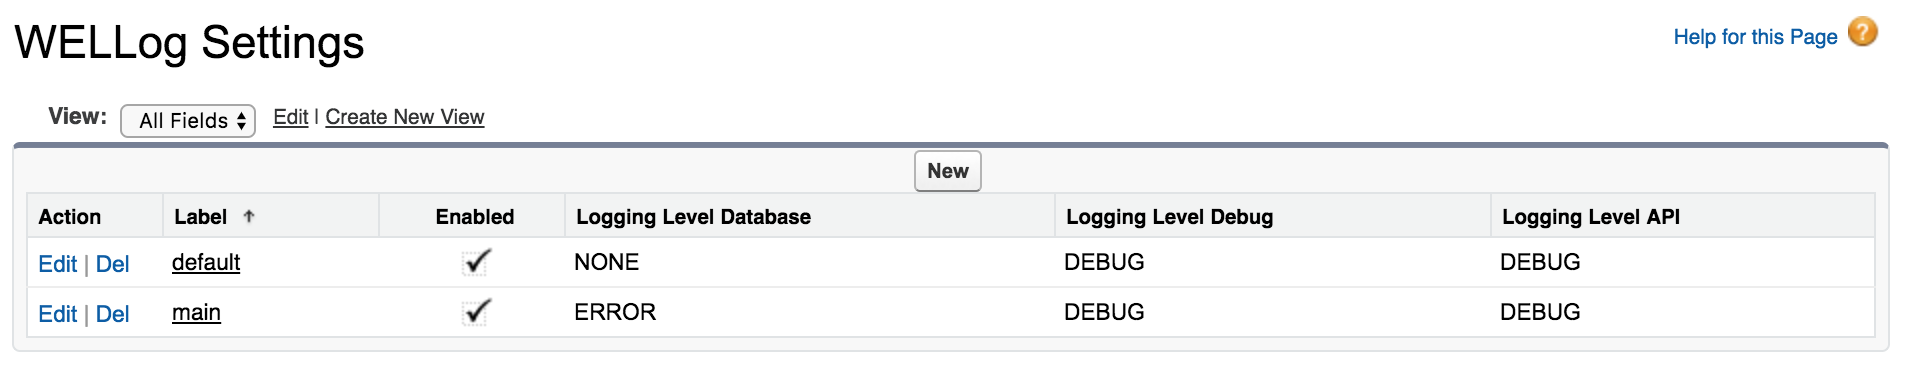
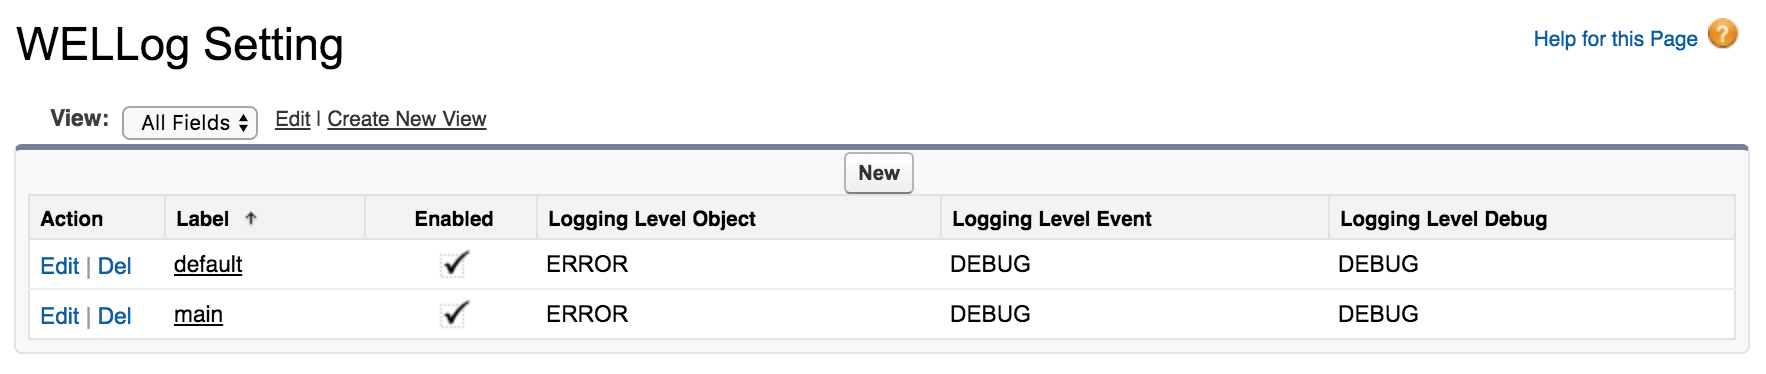
edit README

diff --git a/README.md b/README.md
@@ -1,23 +1,30 @@
 # Well Logger
 
+![](https://img.shields.io/badge/version-2.0.0--alpha.1-orange.svg)
+
 WELLogger is a thin wrapper around Salesforce Apex `System.debug`. It aims to pretty format objects for classes such as Exception, and HttpResponse etc automatically.
+
 ```java
 System.debug(ex.getMessage() + ': ' + ex.getStackTrackMessage()); // no more this
 WELLogger.debug(ex); // just do this
 ```
 In addition, it also has the following features:
-1. Output logs to database sObject `WELLog__c`.
-2. Output logs to `WELLogger.logs` array, which can be further exposed to external APIs.
-3. Categorize logs by namespaces, i.e. `module_name:feature_name:modifier`.
-4. Control logging levels for database, debug log, and web outputs by namespaces.
+1. Add two new log outputs:
+   - Output as database sObject `WELLog__c` for long time persistence of crucial logs.
+   - Output as platform event `WELLogEvent__e` for live debugging.
+2. Categorize logs by namespaces to provide richer context, i.e. `module_name:feature_name:modifier`.
+3. Control logging levels for *database*, *platform event*, and *system debug* outputs via namespaces.
 
-Below is a web browser output example. `[sample:controller]` is the namespace of the log. It is used to provide richer context of the log message.
+Below is a platform event output terminal, which is a lightening web component (LWC) in its maximized state. `[sample:controller]` is the namespace of the log.
 
 <img width="680" src="doc/console.png" alt="console.png"/>
 
 ## Installation
 
-There are two ways to deploy them into your organization:
+Before doing any installation, please pay attention to the following two directories:
+
+1. `src\logger` - **Required***, this is the core library. It can be deployed standalone if you don't want to output logs as platform events, or your org doesn't support it.
+2. `src\terminal` - **Optional***, deploy this together with the `src\logger` if you also want to get some benefits from the platform event output terminal.
 
 #### 1. Ant Migration Tool
 
@@ -30,16 +37,16 @@ This is the most common way if you are not familiar with `sfdx-cli`. Upload all 
 
 #### 2. SFDX-CLI or VS Code
 
-If you are familiar with `sfdx-cli`, you can upload all source codes under directory `src-force/logger` to your organization via sfdx-cli or VS Code. Because the library is developed with VS Code [Salesforce CLI Integration](https://marketplace.visualstudio.com/items?itemName=salesforce.salesforcedx-vscode-core) extension.
+If you are familiar with `sfdx-cli`, you can upload all source codes under directory `src` to your organization via sfdx-cli or VS Code. The library is developed under VS Code [Salesforce Extension Pack](https://marketplace.visualstudio.com/items?itemName=salesforce.salesforcedx-vscode) extension.
 
 1. Download the source code
 2. Open VS Code with sfdx-cli right configured
 3. Issue command `SFDX: Authorize an Org` for your organization
-4. Right click the directory `src-force/logger` and issue command `SFDX: Deploy Source to Org`
+4. Right click the directory `src` and issue command `SFDX: Deploy Source to Org`
 
 ## Usage
 
-Its usage is as simple as `System.debug`.
+Its usage is as simple as `System.debug` with same APIs.
 
 ```java
 WELLogger.debug('doing some work');
@@ -53,7 +60,7 @@ WELLogger.debug('error description', ex);
 WELLogger.debug(LoggingLevel.Error, 'error description', ex);
 ```
 
-When used in above way, all logs will be default to the `main` namespace implicitly. To define loggers with custom namespaces i.e. `module_name:feature_name:modifier`, please use the `WELLogger.get()` API as below. If a custom module doesn't have a corresponding WELLog Setting, the `default` setting will be applied. We will talk more about namespaces and settings in the next section.
+When `debug` is called as a static method, all logs will be default to a `main` namespace implicitly. To define loggers with custom namespaces i.e. `module_name:feature_name:modifier`, please use the `WELLogger.get()` API as below.
 
 ```java
 // WELLogger.ILogger and WELLogger.LoggerInterface can be used interchangeably
@@ -63,13 +70,15 @@ logger.debug(LoggingLevel.ERROR, ex);
 logger.debug(LoggingLevel.Error, 'error description', ex);
 ```
 
-Logger namespace can be chained to create new loggers in other namespaces.
+Logger namespace can be chained to create new loggers in new namespaces.
 
 ```java
 WELLogger.ILogger logger = WELLogger.get('module_name'); // namespace = 'module_name'
 logger = logger.get('feature_name'); // namespace = 'module_name:feature_name'
 logger = logger.get('modifier'); // namespace = 'module_name:feature_name:modifier'
 ```
+
+All log outputs are controlled by the WELLog Setting of each module. If the module of a custom namespace doesn't have a corresponding WELLog Setting, the `default` WELLog Setting will be applied. We will talk more about namespaces and settings in the next section.
 
 ### Namespaces
 
@@ -79,9 +88,9 @@ Each log must have a namespace. A namespace should generally follow a pattern li
 | -------------- | ------------------------------------------------------------ |
 | Module Name    | **Required**. Module name should be short and descriptive words. |
 | Feature Name   | **Optional**. Feature name could be a short functional description, a class name, or the artchitecture layer etc. |
-| Modifier       | **Optional**. Supplement to the feature name to further classify the log contexts. Is it an exception? How severe is it? |
+| Modifier       | **Optional**. Supplement to the feature name to further classify the log contexts. For example, it can be used to identify an exception or the log severity etc. |
 
-However, new good namespace pattern can always be invented to suit your project needs. `module_name:class_name` might not be a good alternative, but it is useful and straightforward in some circumstances. Once formula fields created to parse the namespace context out, we can use them to generate much meaningful reports. 
+However, new good namespace patterns can always be invented to suit your project needs. Some may not be good alternatives, but they could be useful and straightforward in some circumstances. With the help of formula fields to parse the namespaces, we can generate much meaningful reports.
 
 #### Module Logging Levels
 Use  `WELLogSetting__mdt` custom metadata type to control logging levels for each module. There are two built-in modules `main` and `default`. Their usage has been explained in the above section.
@@ -98,15 +107,15 @@ Use  `WELLogSetting__mdt` custom metadata type to control logging levels for eac
 
 The library supports three output types:
 
-| Output   | Description                                                  | Best Practice                                                |
-| -------- | ------------------------------------------------------------ | ------------------------------------------------------------ |
-| Database | Persist logs into sObject `WELLog__c`, after calling `WELLogger.save()` method. | Only enable this output for critical issues and exceptions.  |
-| Debug    | Persist logs into the standard system debug logs.            | Main debug methodology, use this for daily development debugging activities as well as production debug, and performance tuning etc. |
-| API      | Logs will not be persisted. Pull logs when needed from `WELLogger.logs`. | It is useful when logs can be viewed externally. It won't impact the 250MB debug log size limit, if APIs are called frequently and a lot of data/messages are carried with logs. **Note**: This should be turned off on production, unless another level of security is built on top of this library. |
+| Output     | Description                                        | Best Practice                                                |
+| ---------- | -------------------------------------------------- | ------------------------------------------------------------ |
+| **Object** | Persist logs into sObject `WELLog__c`.             | Only enable this output for critical issues and exceptions.  |
+| **Event**  | Persist logs into platform event `WELLogEvent__e`. | Use this for Apex level debugging activities during developement phase. It won't impact the 250MB debug log size limit. Since platform event has a daily limit, to avoid generate too much on production, please set it to a strict logging level, or temporarily raise the level in a specific time window. |
+| **Debug**  | Persist logs into the standard system debug.       | Use this for more advanced debugging activities especially to view logs not controlled by Apex `System.debug`. Such as SOQL statement and performance tuning etc. |
 
-#### Database Output
+#### Logging Paradigm
 
-Here is the best approach for how to use `WELLogger.save()` to save logs into the database. Please limit this `try catch finally` pattern only to the entrance method of the current excecution context, i.e. `execute()` method for batch classes.
+Here is the best approach for how to use `WELLogger.save()` to save logs as sObjects and publish as platform events. Please limit this `try catch finally` pattern only to the entrance method of the current excecution context, i.e. `execute()` method for batch classes.
 
 ```java
 public class WELSampleController {
@@ -115,7 +124,6 @@ public class WELSampleController {
     
     class Response {
         Object data { get; set; }
-        Object logs { get; set; }
     }
     
     @RemoteAction
@@ -127,66 +135,20 @@ public class WELSampleController {
         Response res = new Response();
         try {
             logger.debug(LoggingLevel.INFO, 'doing lots of uninteresting work');
-            logger.debug(LoggingLevel.WARN, 'doing some work');
-            logger.debug(LoggingLevel.INFO, 'doing lots of uninteresting work');
-            logger.debug(LoggingLevel.WARN, 'doing some work');
             logger.debug('a list of objects', new List<Object>());
-        } catch (DmlException ex) {
-            logger.get('ex').debug(LoggingLevel.ERROR, ex); // use ex as modifier
         } catch(Exception ex) {
             logger.get('ex').debug(LoggingLevel.ERROR, ex); // use ex as modifier
         } finally {
-            WELLogger.save();          // output to database
-            res.logs = WELLogger.logs; // output to browser
+            WELLogger.save(); // output to database
         }
 
         logger.debug('[M:X] doSomeWork()'); // log for method exit
+        logger.debug('[R:res]', res);       // log for return value
         return res;
     }
 }
 ```
 
-#### Browser Output 
-
-In the above example we can also see a log output to the remote action response. We can print these logs in the developer console with wellogger.js helper. To view the logs in Chrome developer console, select `Verbose` as the logging level. Source codes for both remote action and lightning component are under the directory `src-force/sample`.
-
-```html
-<apex:page name="WELSample" controller="WELSampleController">
-  <apex:includeScript value="{!URLFOR($Resource.WELLogger, 'wellogger.js')}"/>
-  <script>
-    Visualforce.remoting.Manager.invokeAction(
-      '{!$RemoteAction.WELSampleController.doSomeWork}', 'value 1', 'value 2',
-      function(result, event){
-        if (event.status) {
-          wellogger(result.logs);
-        }
-      },
-      {escape: true}
-    );
-  </script>
-</apex:page>
-```
-
 ## License
-MIT License
-
-Copyright (c) 2019 Jianfeng Jin
-
-Permission is hereby granted, free of charge, to any person obtaining a copy
-of this software and associated documentation files (the "Software"), to deal
-in the Software without restriction, including without limitation the rights
-to use, copy, modify, merge, publish, distribute, sublicense, and/or sell
-copies of the Software, and to permit persons to whom the Software is
-furnished to do so, subject to the following conditions:
-
-The above copyright notice and this permission notice shall be included in all
-copies or substantial portions of the Software.
-
-THE SOFTWARE IS PROVIDED "AS IS", WITHOUT WARRANTY OF ANY KIND, EXPRESS OR
-IMPLIED, INCLUDING BUT NOT LIMITED TO THE WARRANTIES OF MERCHANTABILITY,
-FITNESS FOR A PARTICULAR PURPOSE AND NONINFRINGEMENT. IN NO EVENT SHALL THE
-AUTHORS OR COPYRIGHT HOLDERS BE LIABLE FOR ANY CLAIM, DAMAGES OR OTHER
-LIABILITY, WHETHER IN AN ACTION OF CONTRACT, TORT OR OTHERWISE, ARISING FROM,
-OUT OF OR IN CONNECTION WITH THE SOFTWARE OR THE USE OR OTHER DEALINGS IN THE
-SOFTWARE.
+MIT
 
